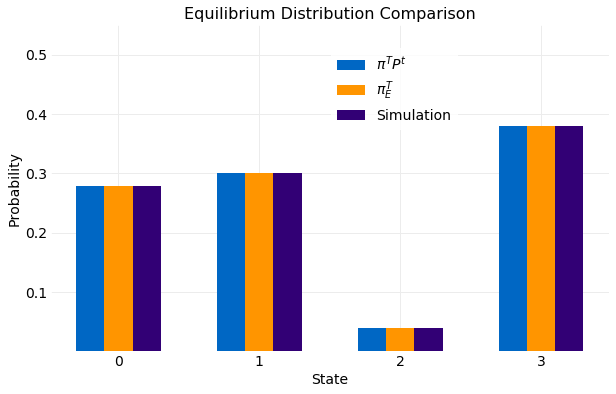
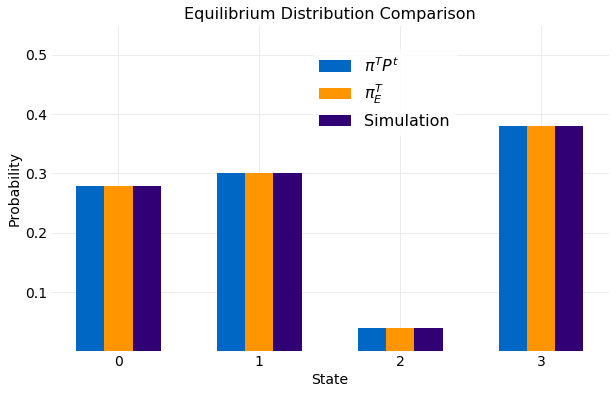
more plot updates

Changed region(s): [[0.4935, 0.2132, 0.7403, 0.335], [0.4935, 0.1218, 0.6477, 0.1827]]

diff --git a/hydrogen_notebooks/mcmc/markov_chain_equilibium.py b/hydrogen_notebooks/mcmc/markov_chain_equilibium.py
@@ -177,5 +177,5 @@ axis.set_xticks([0, 1, 2, 3])
 axis.bar(states - 0.2, computed_pdf, 0.2, label=r'$\pi^T P^t$', zorder=5)
 axis.bar(states, πe, 0.2, label=r'$\pi^T_E$', lw="3", zorder=10)
 axis.bar(states + 0.2, simpulated_pdf, 0.2, label="Simulation", lw="3", zorder=10)
-axis.legend(bbox_to_anchor=(0.74, 0.95))
+axis.legend(bbox_to_anchor=(0.74, 0.95), fontsize=16)
 config.save_post_asset(figure, "discrete_state_markov_chain_equilibrium", "distribution_comparison")
